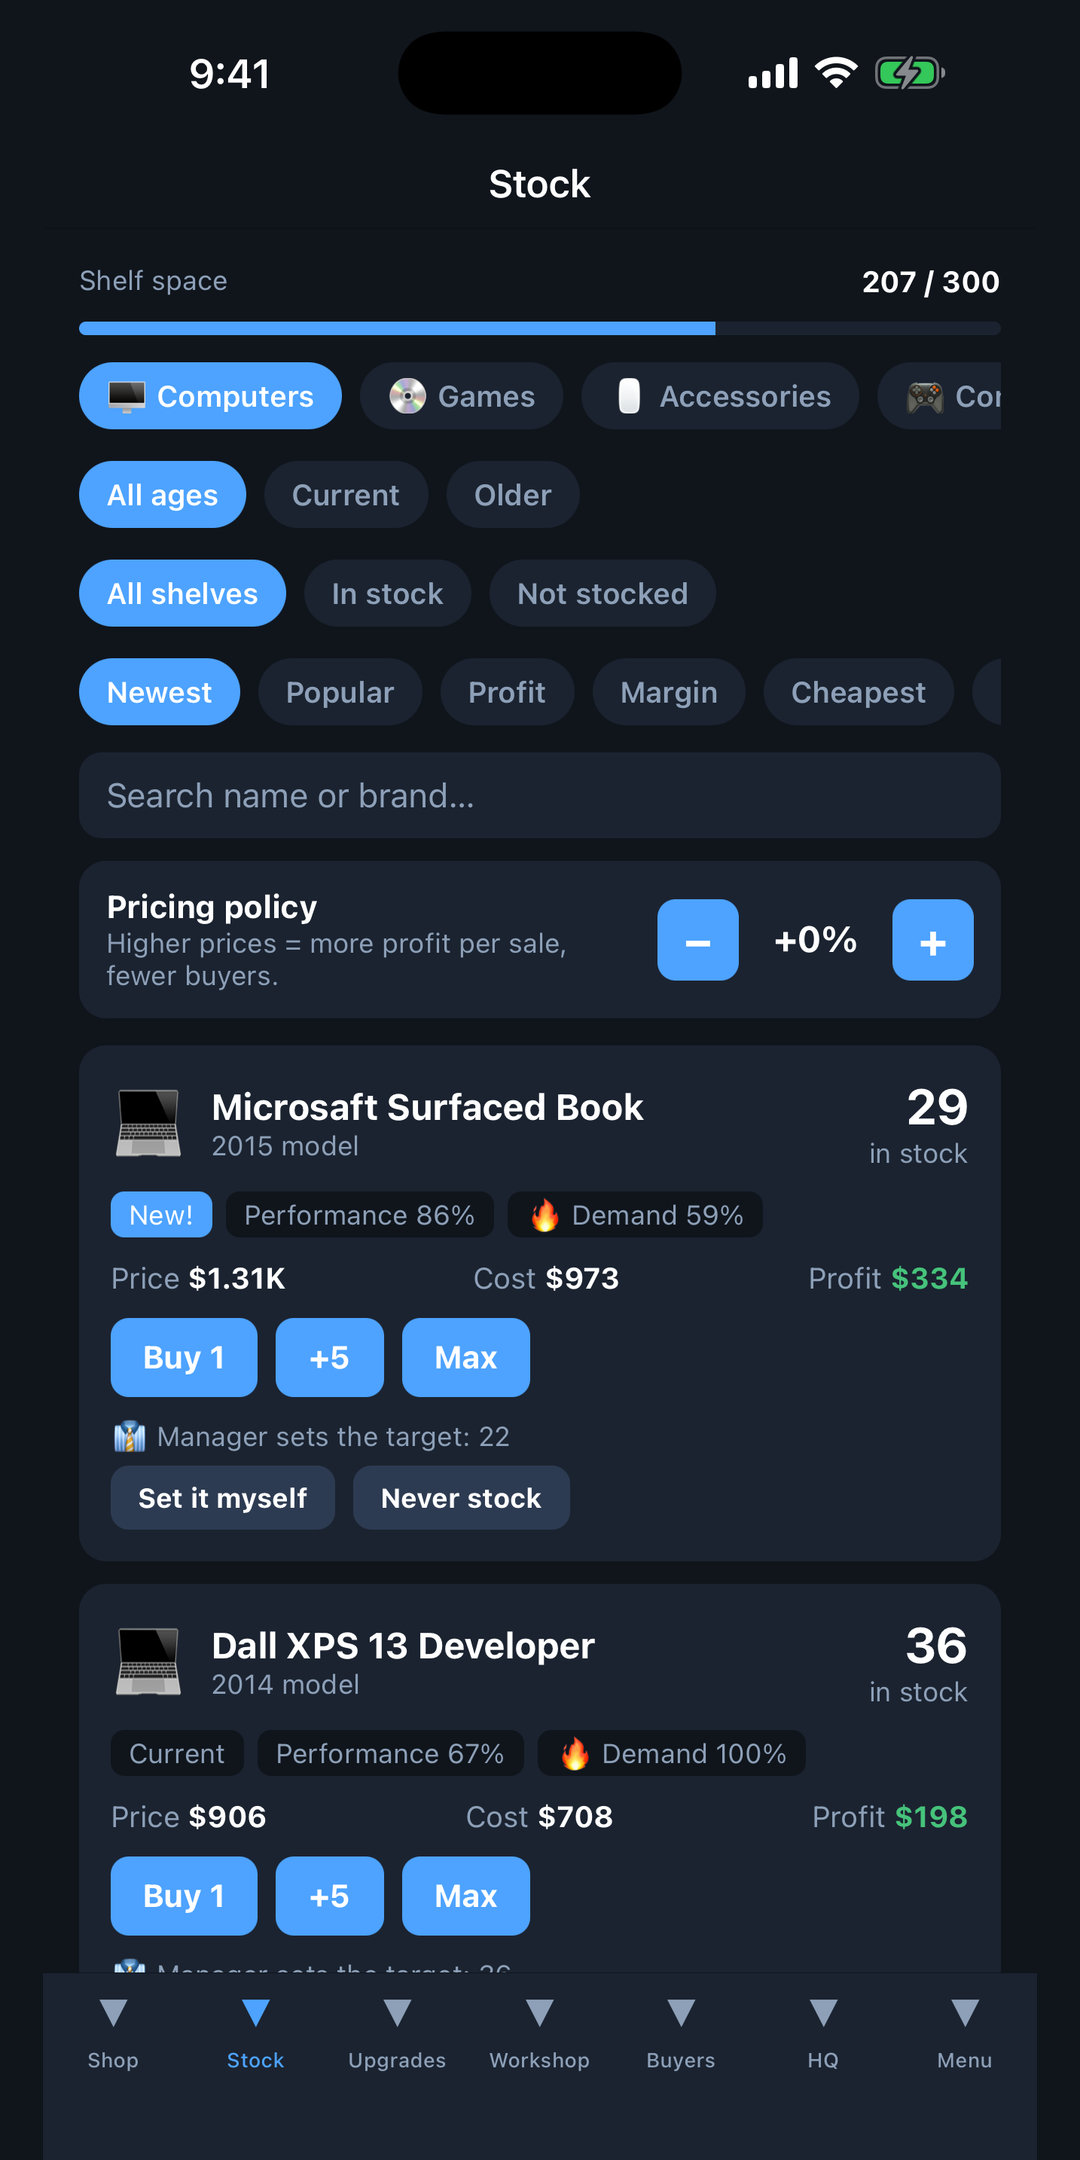
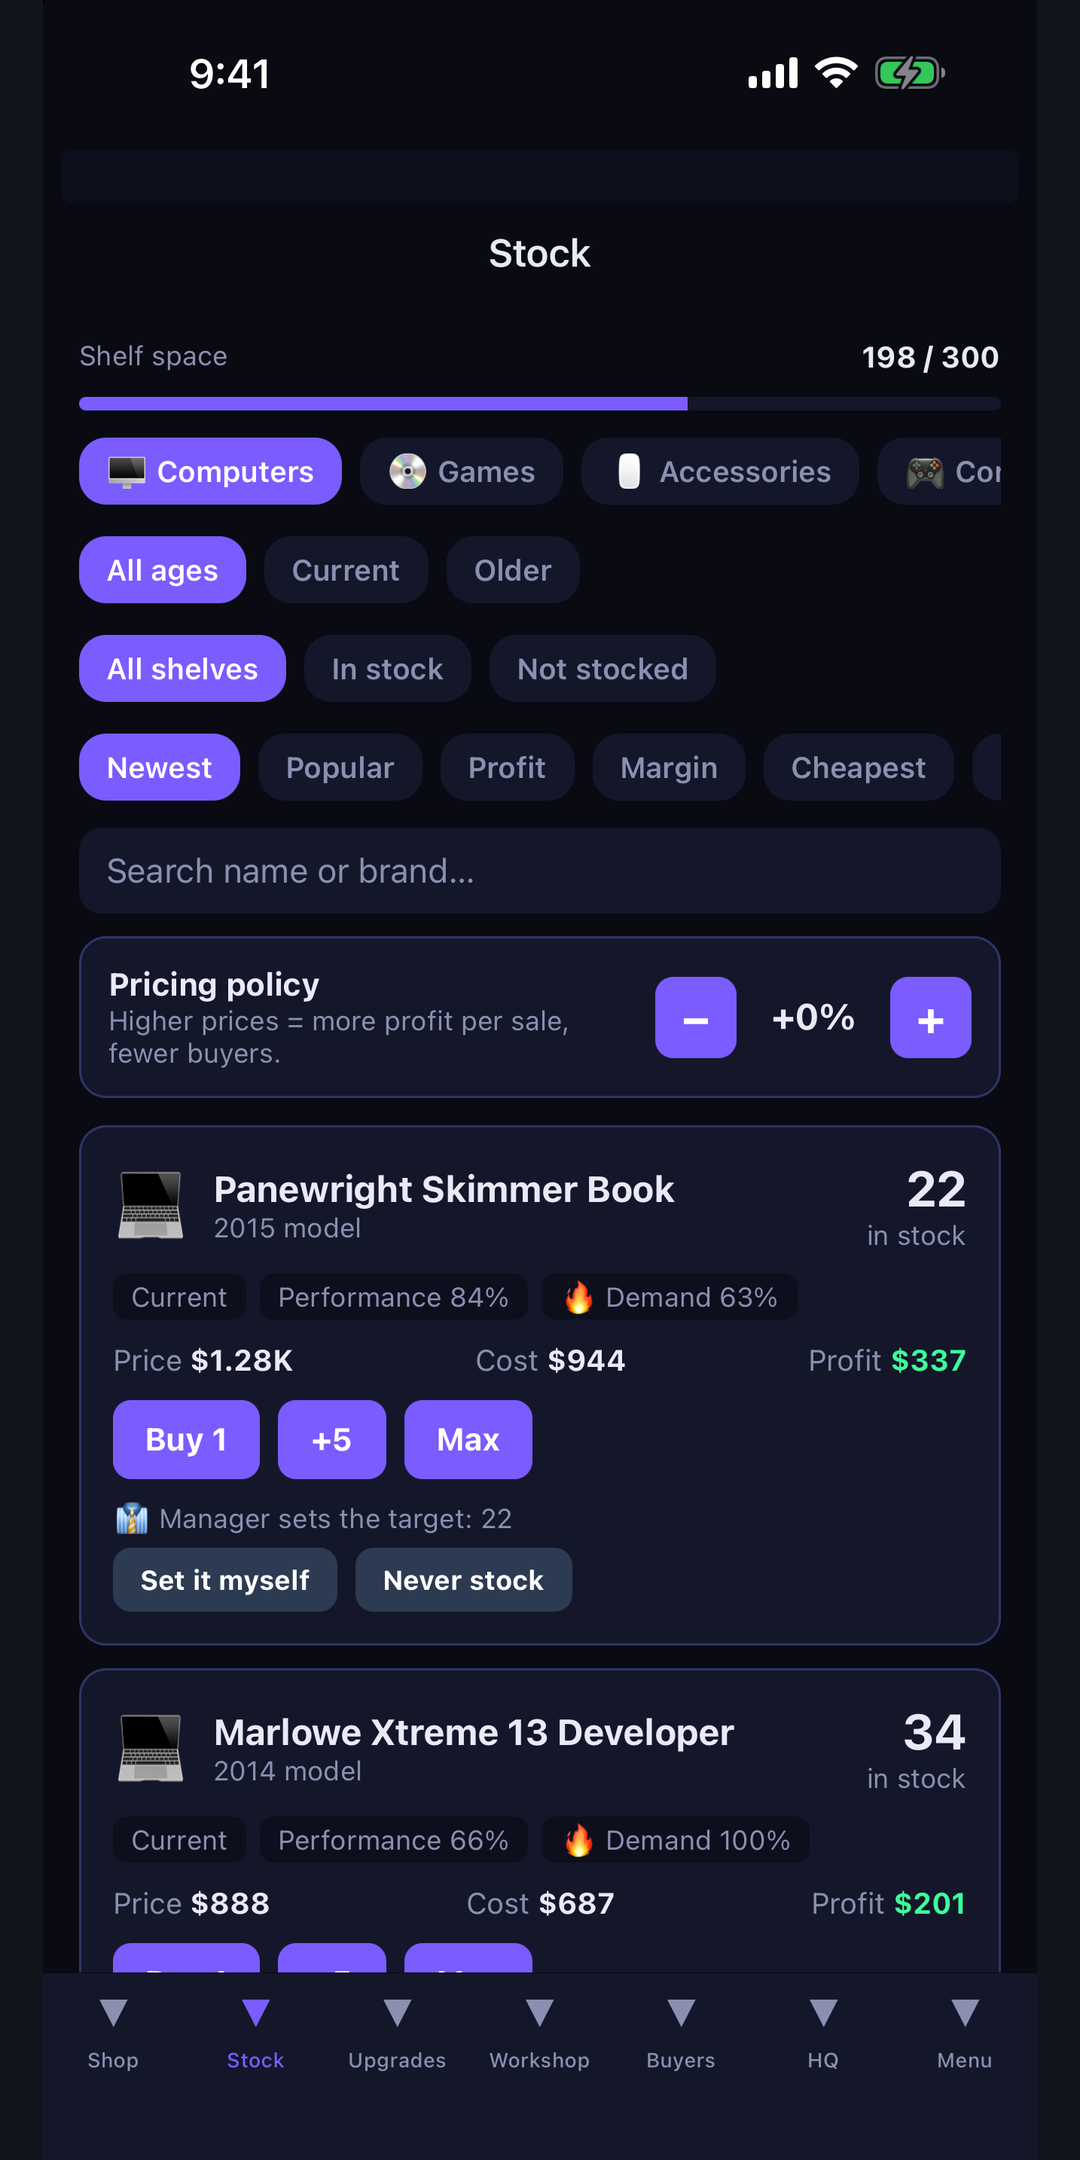
Retake App Store and Play screenshots (new names, themes, ticker, walkers); naming-risk notes resolved
Claude-Session: https://claude.ai/code/session_01PmrESo4UZZLMcCJ1G3A3QQ

Changed region(s): [[0.0611, 0.062, 0.9472, 0.9616], [0.7639, 0.5894, 0.7944, 0.6204]]

diff --git a/docs/store/RELEASE.md b/docs/store/RELEASE.md
@@ -3,16 +3,11 @@
 What is already done in the repo: icon and splash, bundle ID, versions, privacy manifest, privacy and support pages, in-app account
 deletion, EAS config (`app/eas.json`). What follows needs your accounts and cannot be done from the code.
 
-## 0. Naming risk (mostly resolved)
+## 0. Naming risk (resolved)
 Apple guideline 5.2 (Intellectual Property) can reject apps whose names read as another company's trademark, and review is done by a person looking at the screenshots.
-**Games, publishers and consoles now have original names** (`core/names.js`, from the `rename-games` branch; guarded by `tools/names-check.js`: no real trademark, no retired pun,
-no "-ish" marker, and no item id changes, so saves keep working). The real name "Geocities Web Page" was renamed too.
-
-What is **left on purpose** is the PC hardware layer: the computer makers, parts and peripherals are one-letter parodies of real companies
-(Microsaft, Dall, Compac, Intal, Envidia, Logitec, Windoze, Corsiar...). They parody generic industry names rather than game franchises, and the app says
-"not affiliated with any real company" in About and in the privacy policy, but review is still a judgement call. If Apple objects, the fix uses the same mechanism:
-add display-name overrides in `core/names.js` (product and part brands are defined in `core/data.js`, so they need the same treatment to keep ids stable).
-The Stock and Workshop screenshots (06, 07) show these hardware brands; leave them out of the first submission to lower the risk.
+**Every brand in the game now has an original name**: games, publishers, consoles, PC makers, models, parts and peripheral brands (`core/names.js` and `core/data.js`; guarded by
+`tools/names-check.js`: no real trademark, no retired pun, no "-ish" marker, and no item id changes, so saves keep working). About and the privacy policy also say the game is not affiliated
+with any real company. All seven screenshots are safe to submit.
 
 ## 1. Before you build
 1. **Contact address.** The privacy and support pages show a "no contact address" notice until you add one. On the server edit `inc/config.php`

diff --git a/CLAUDE.md b/CLAUDE.md
@@ -66,7 +66,7 @@ React Native (Expo) app reusing the simulation: `engine.js`, `data.js`, `addons.
 - **Seeding a simulator save:** AsyncStorage on iOS keeps big values in `<app data>/Library/Application Support/<bundle id>/RCTAsyncLocalStorage_V1/<md5 of key>` (manifest.json holds `{"csig-save-v1":null}`); stop the app, write `E.serialize(state)` there, relaunch. Handy for screenshotting late-game screens.
 - **Metro gotcha:** do NOT start Metro with `CI=1` for manual testing — it disables file watching and serves stale code. `npx expo run:ios` needs `CI=1` only to skip prompts; then restart Metro with plain `npx expo start --port 8081`. Custom-scheme deep links (`xcrun simctl openurl booted computershopidle:///stock`) trigger an iOS confirmation prompt that can't be dismissed headlessly.
 - **Rebuild rule:** a package with native code needs `npx expo run:ios` (or `pod install` in `app/ios` + Xcode Run); JS-only edits just reload. Debug builds need Metro running (`npx expo start`). `ios/` is generated and gitignored. Verified on the iPhone 17 Pro simulator (save survives kill + relaunch, welcome-back sheet).
-- Not yet done: first real store build + TestFlight / Play internal test, Android run on a device, screenshots, password reset (needs email), password change / export-import from the app, `expo`/`expo-router` patch upgrades (`expo-doctor` flags 58.0.13 / 58.0.22).
+- Not yet done: first real store build + TestFlight / Play internal test, Android run on a device, password reset (needs email), password change / export-import from the app, `expo`/`expo-router` patch upgrades (`expo-doctor` flags 58.0.13 / 58.0.22).
 
 ## Change log (newest first)
 Developer-facing log; the player-facing one is `changelog.json`.

diff --git a/docs/store/LISTING.md b/docs/store/LISTING.md
@@ -77,7 +77,7 @@ Export compliance: only standard HTTPS, so `ITSAppUsesNonExemptEncryption = fals
 > (registration is open, any username and an 8+ character password). Account deletion is in the same place (Menu > Account > Delete account).
 > All brand and product names in the game are fictional parodies; the About panel and the privacy page say they are not affiliated with any real company.
 
-## Screenshots (made)
+## Screenshots (made; retaken 2026-10-17 with the original names, era themes, ticker and walkers)
 Captured from a Release build on the iPhone 17 Pro Max simulator (status bar set to 9:41, full battery) with a mid-game 2015 shop.
 Generated by `tools/make-store-screenshots.js` from raw captures.
 
